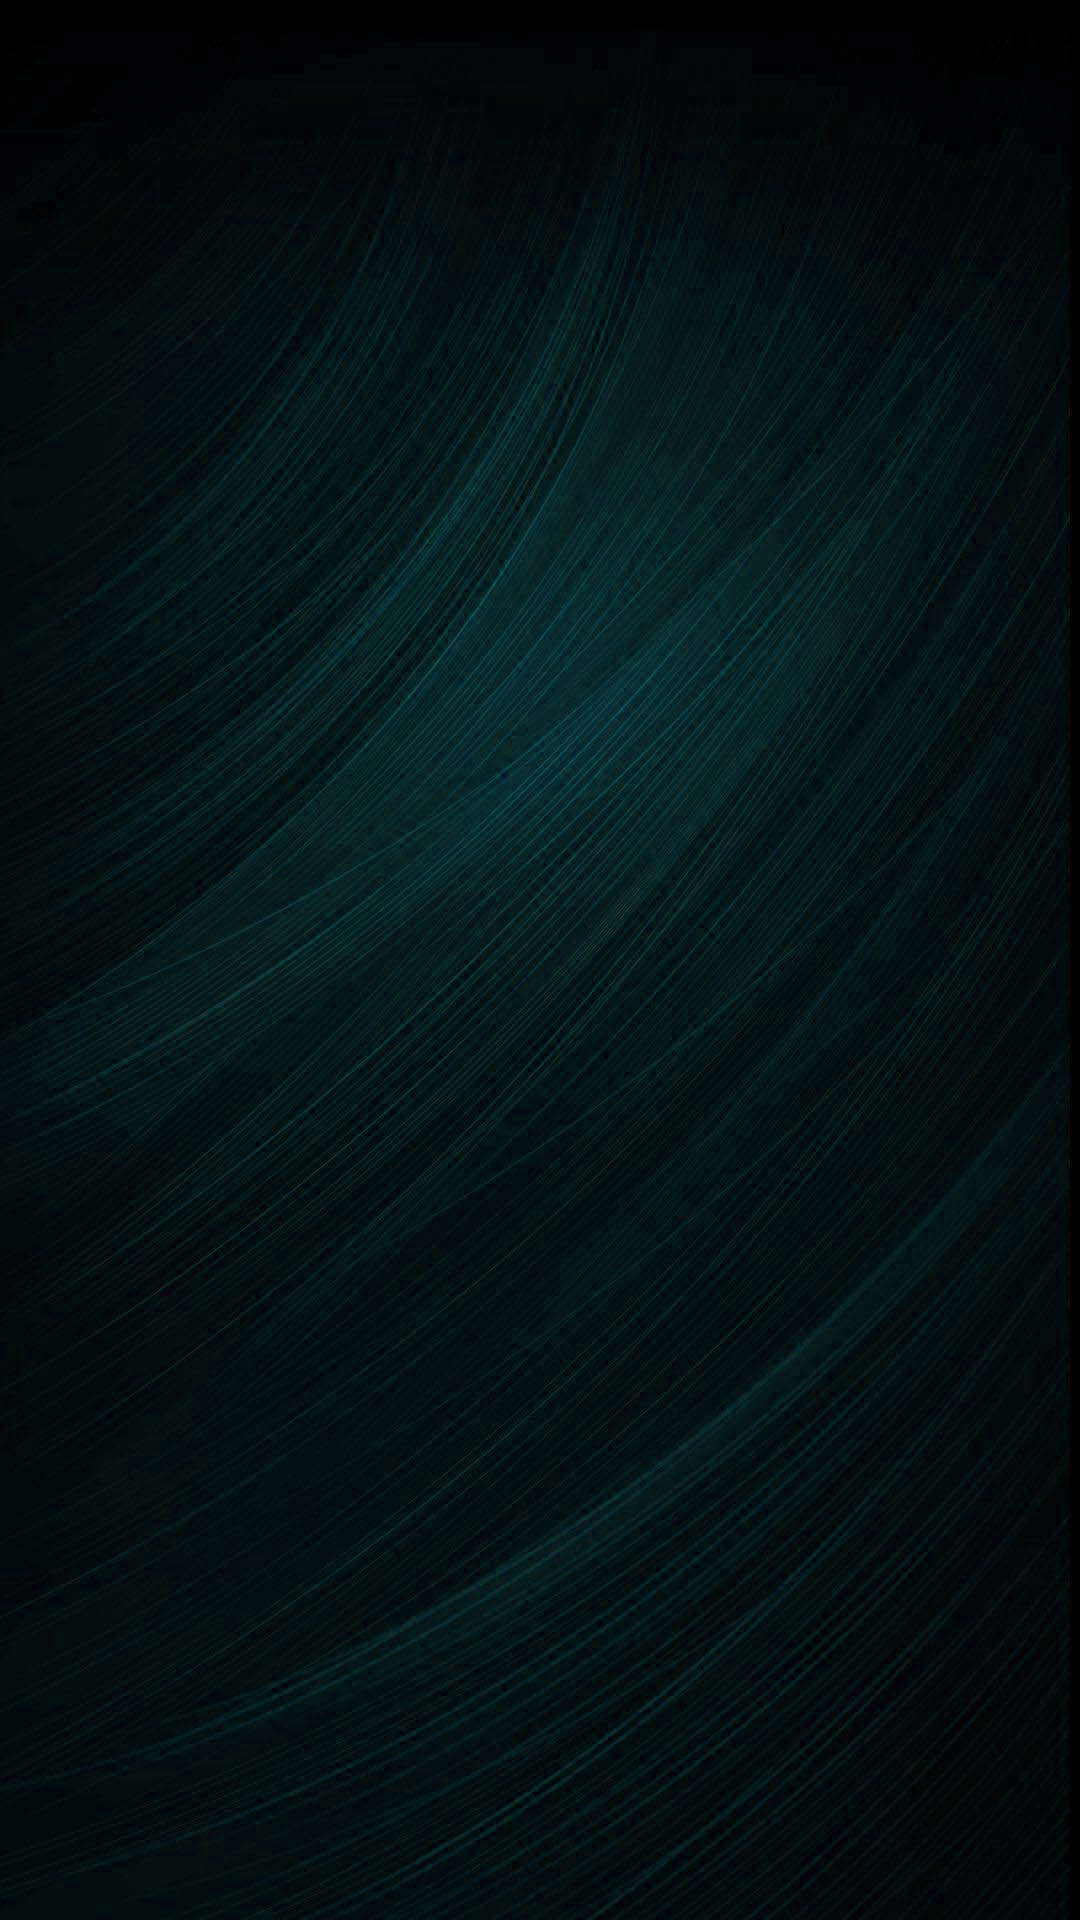
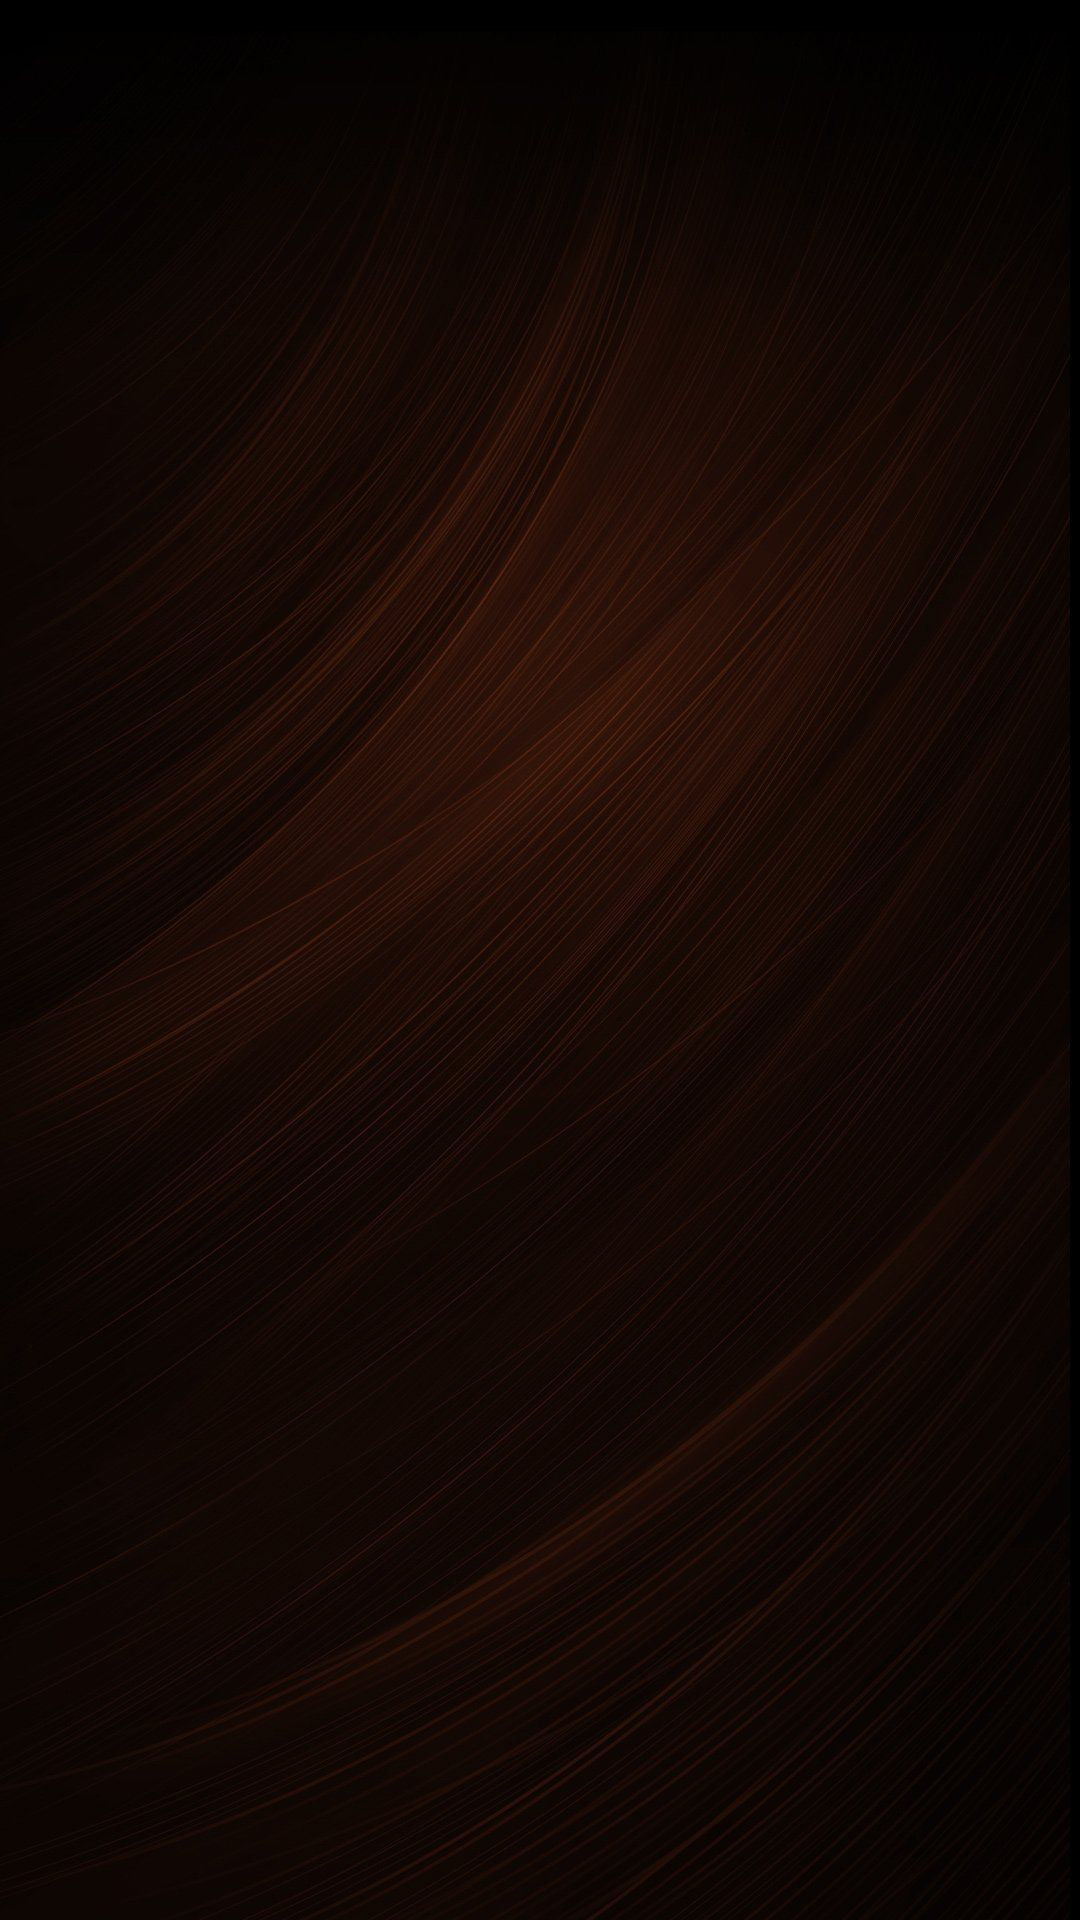
fond

diff --git a/style.css b/style.css
@@ -265,5 +265,5 @@ background-position: center;
 }
 @media screen and  (max-width: 900px){
     body{
-    background-image: url('https://i.pinimg.com//originals/52/30/ec/5230ec8a17b4e18bb006c10fc64aed30.jpg');
+    background-image: url("/images/fondo.jpg");
 }}
